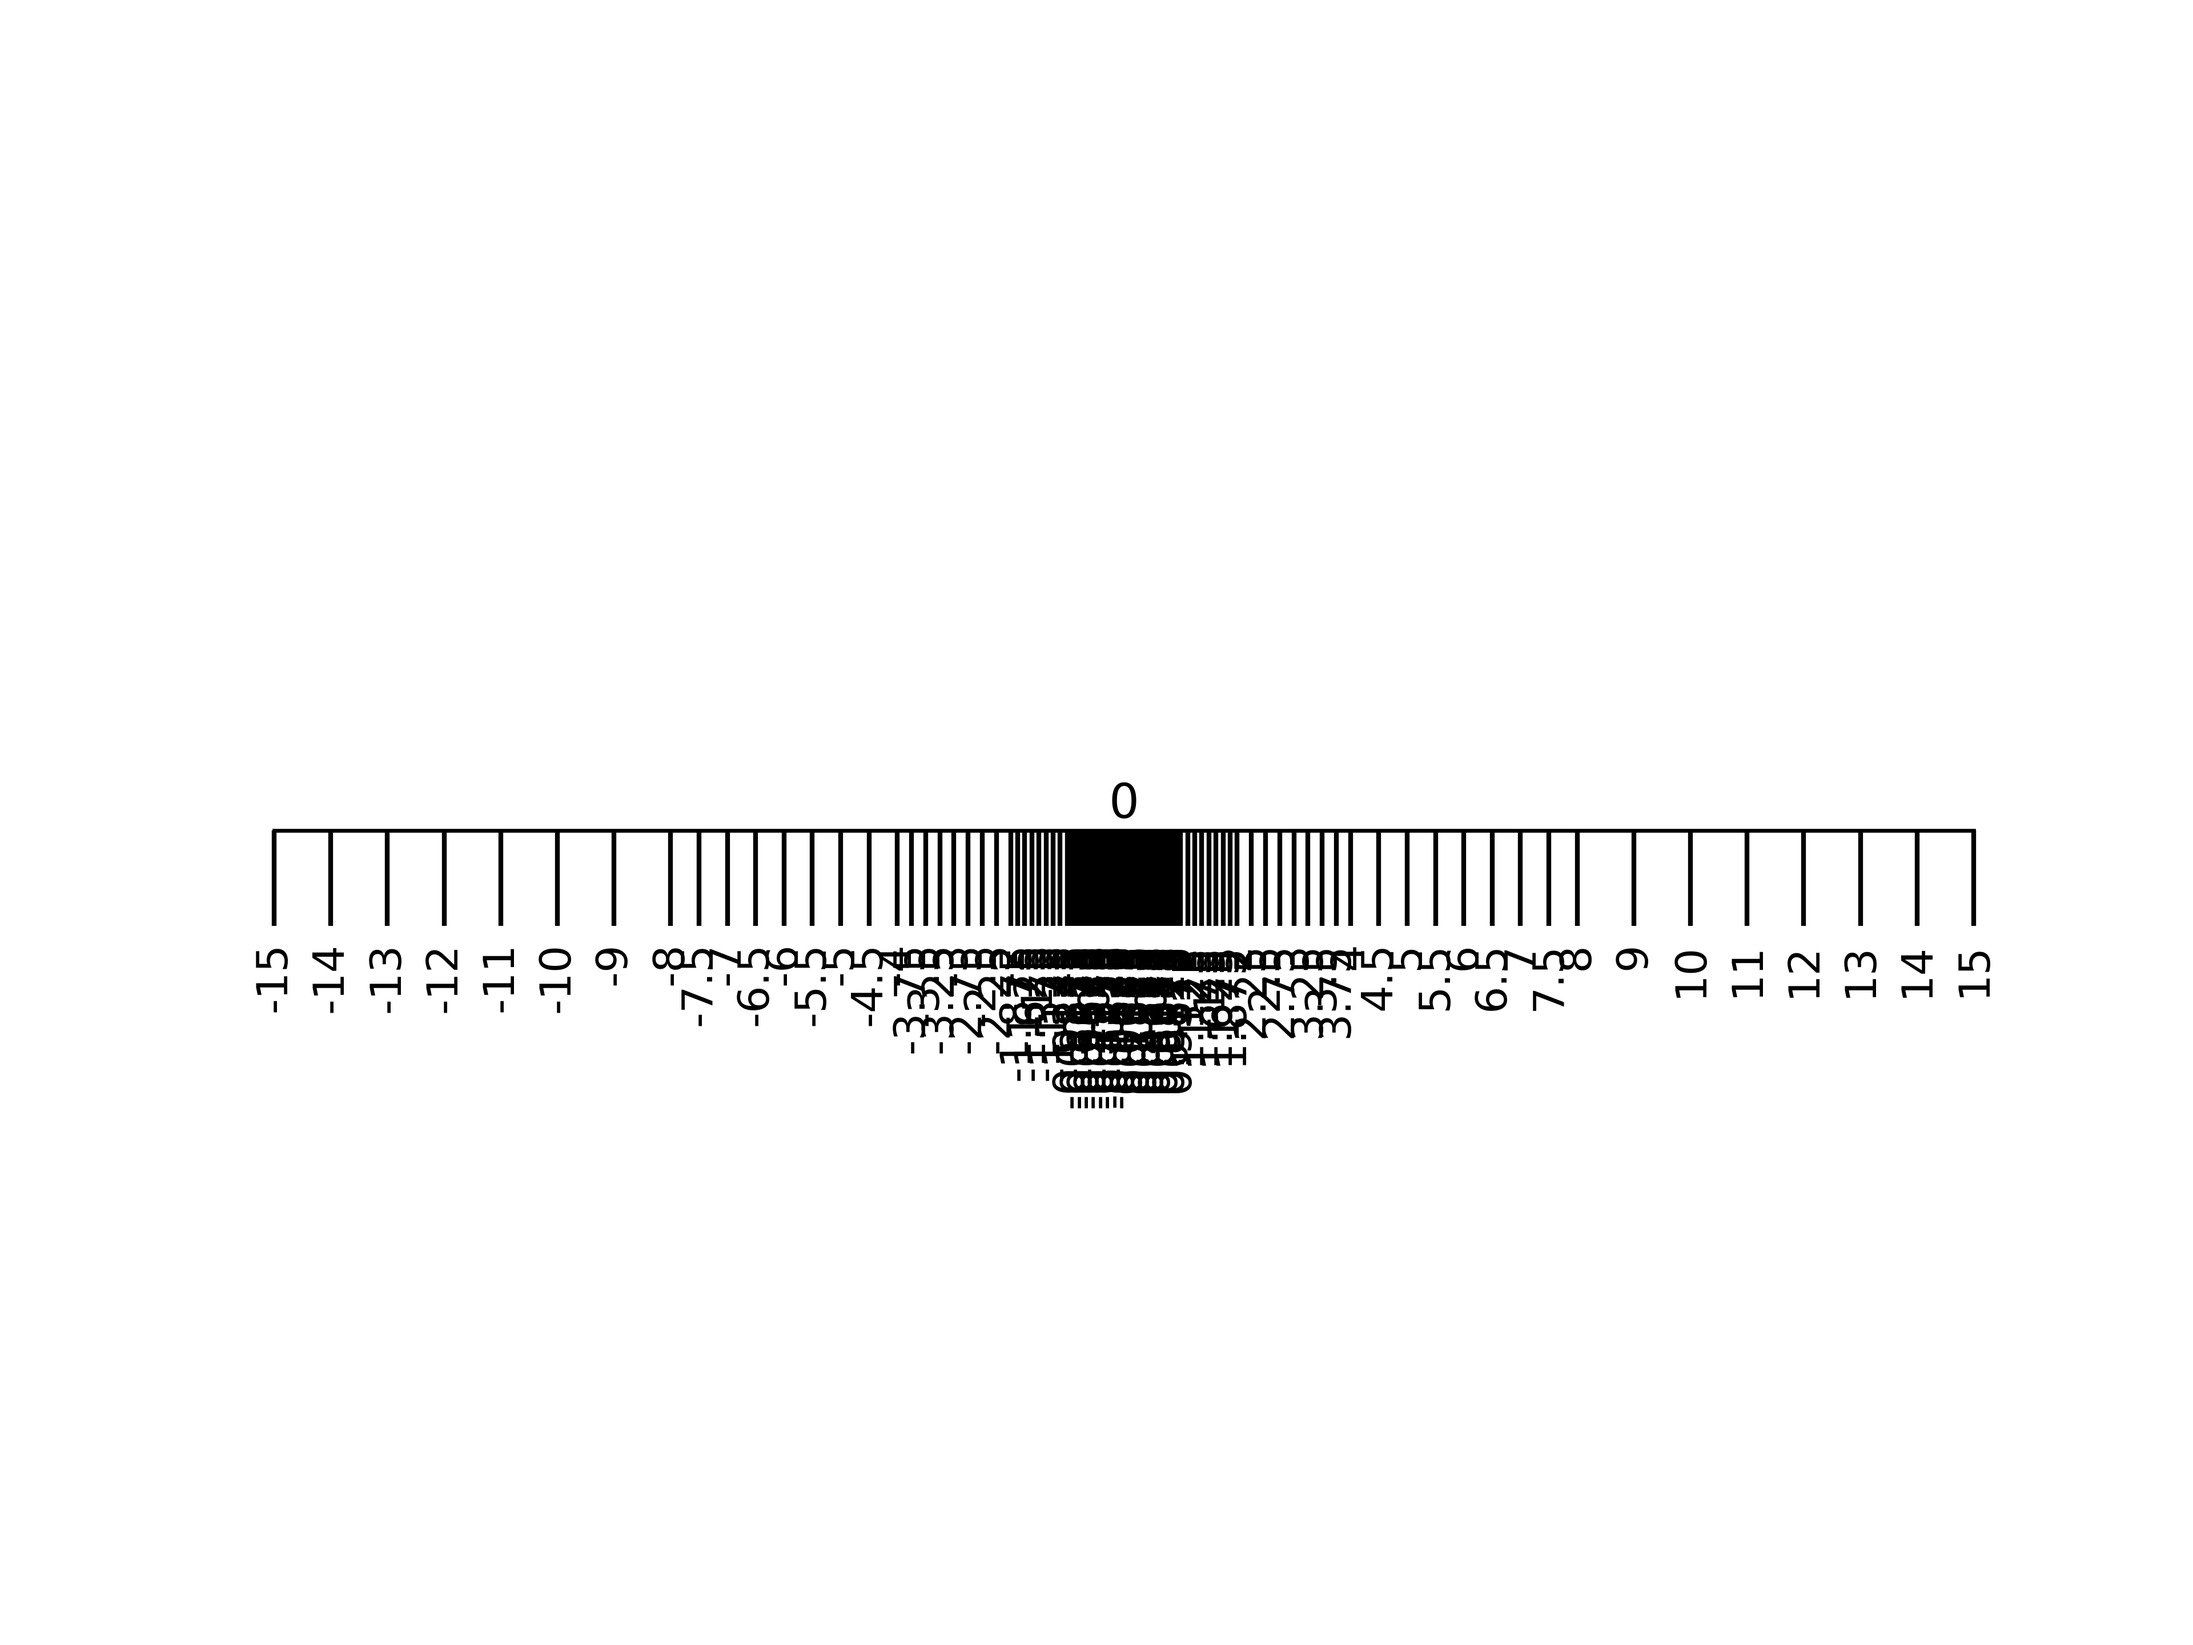
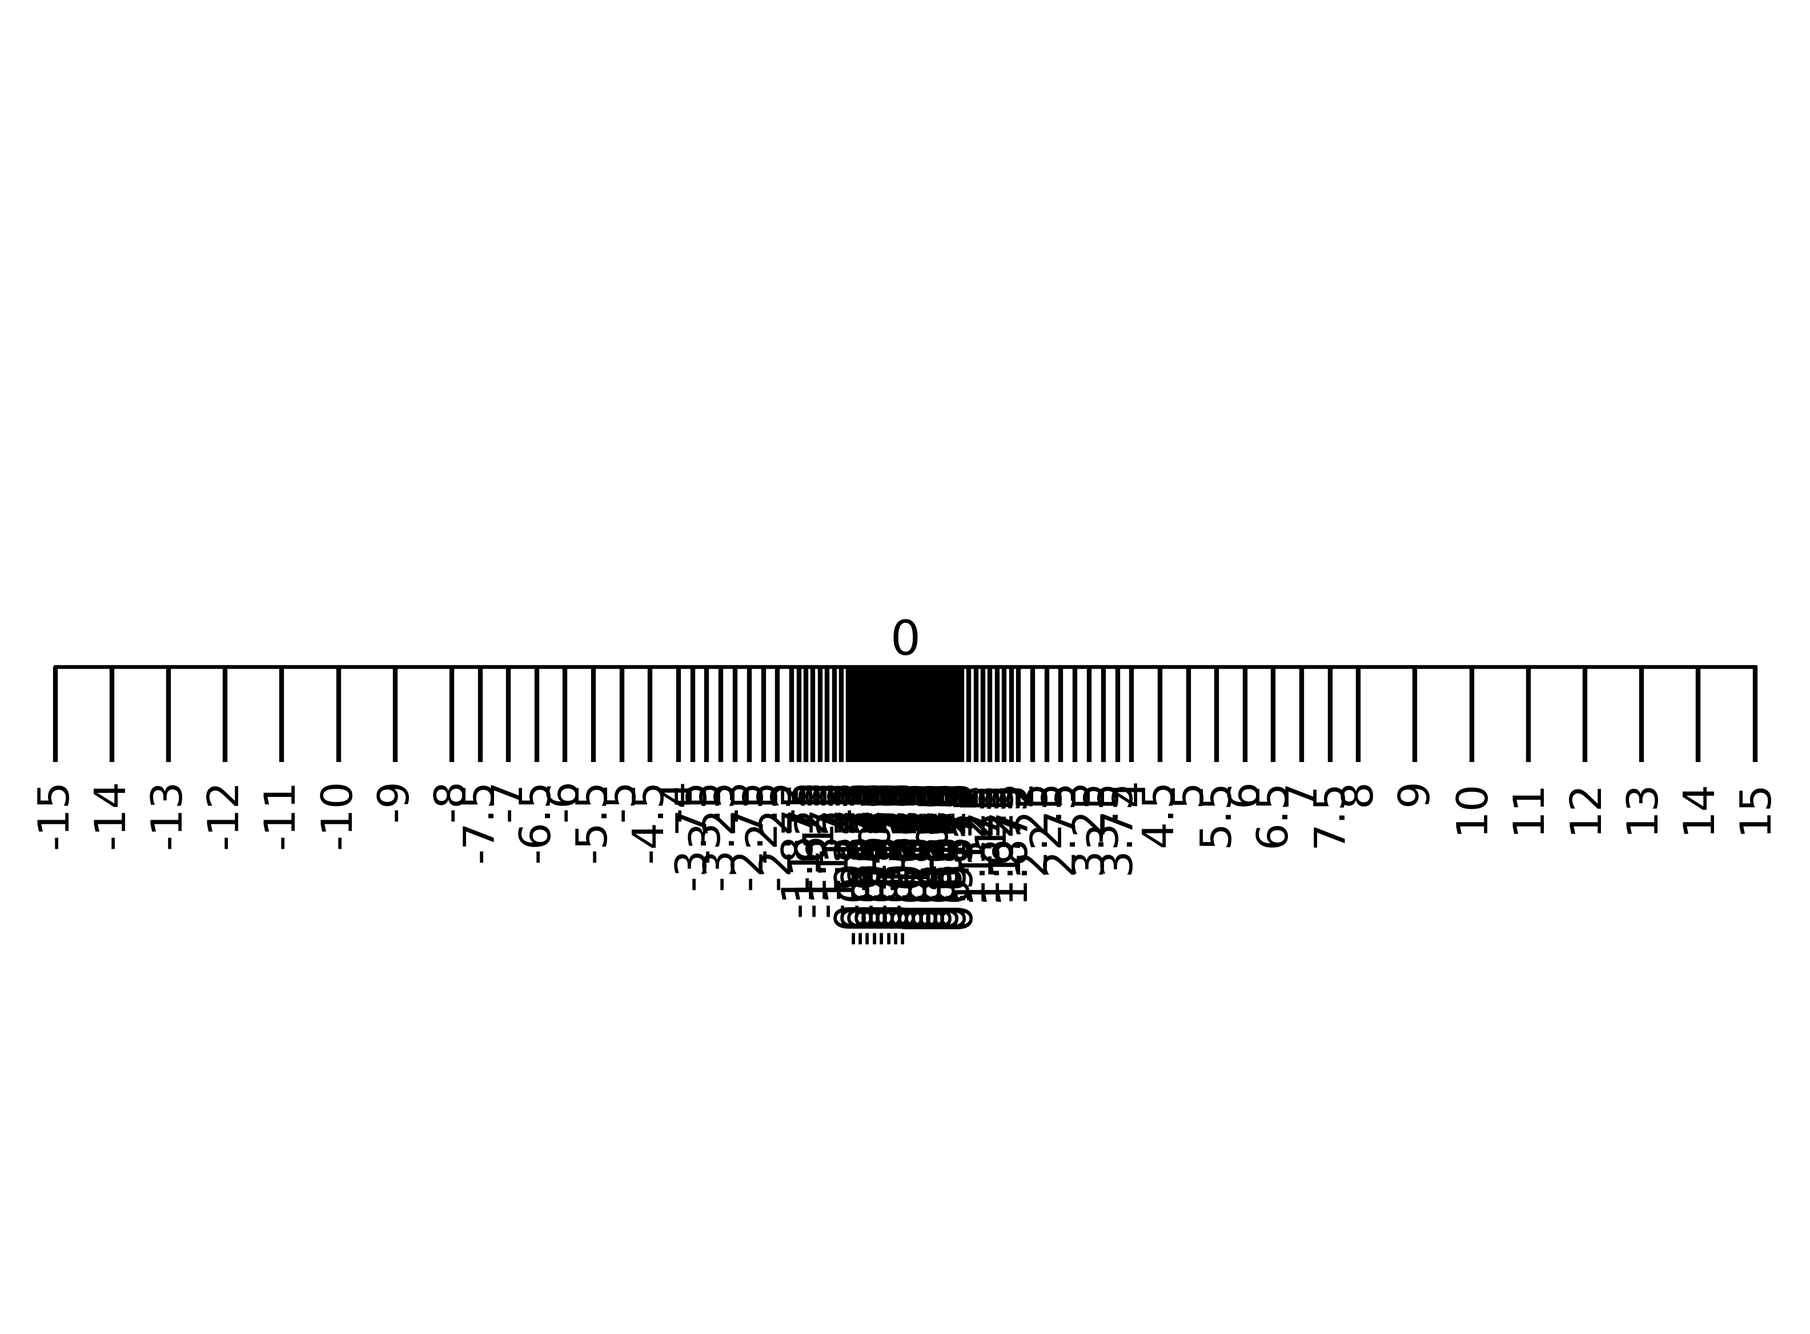
Figure refitting

Changed region(s): [[0.0, 0.4685, 0.9997, 0.7184]]

diff --git a/floats_distribution.py b/floats_distribution.py
@@ -38,4 +38,4 @@ ax.tick_params('both', length=20, width=1, labelsize=9)
 plt.xticks(rotation=90)
 
 # Save output
-plt.savefig("floats_distribution.png", dpi=600)
+plt.savefig("floats_distribution.png", dpi=600, bbox_inches='tight')
